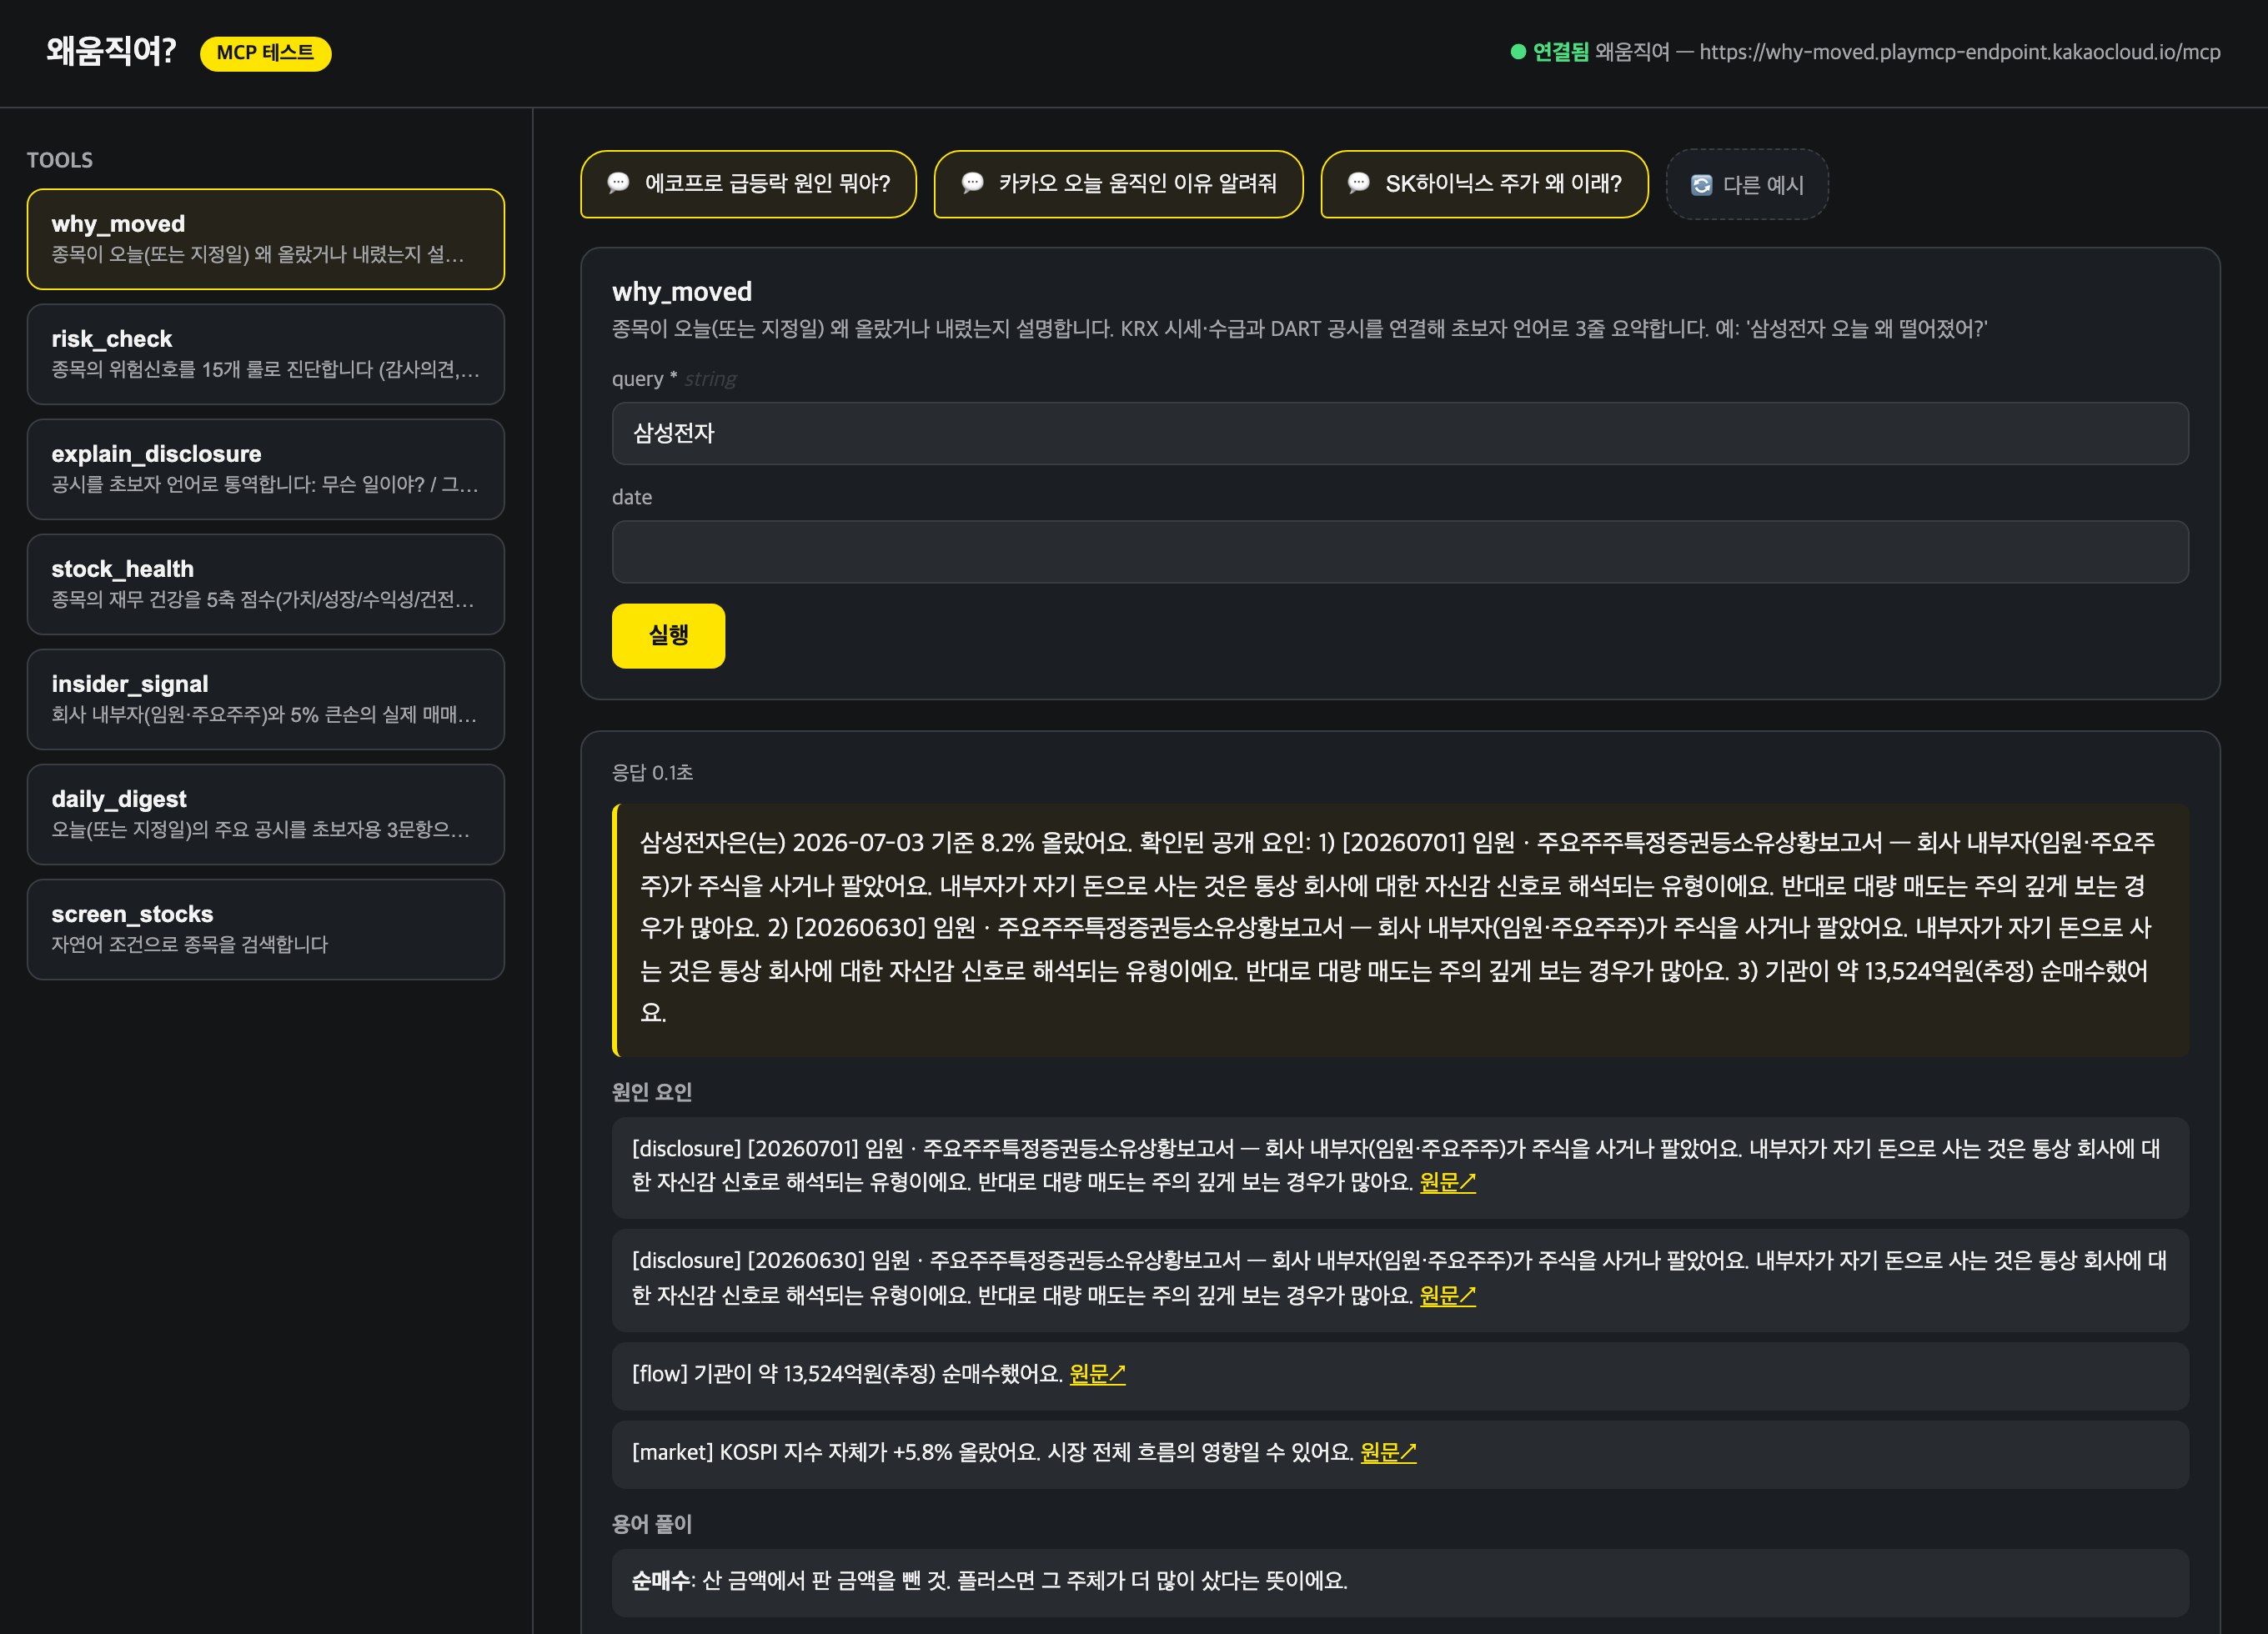
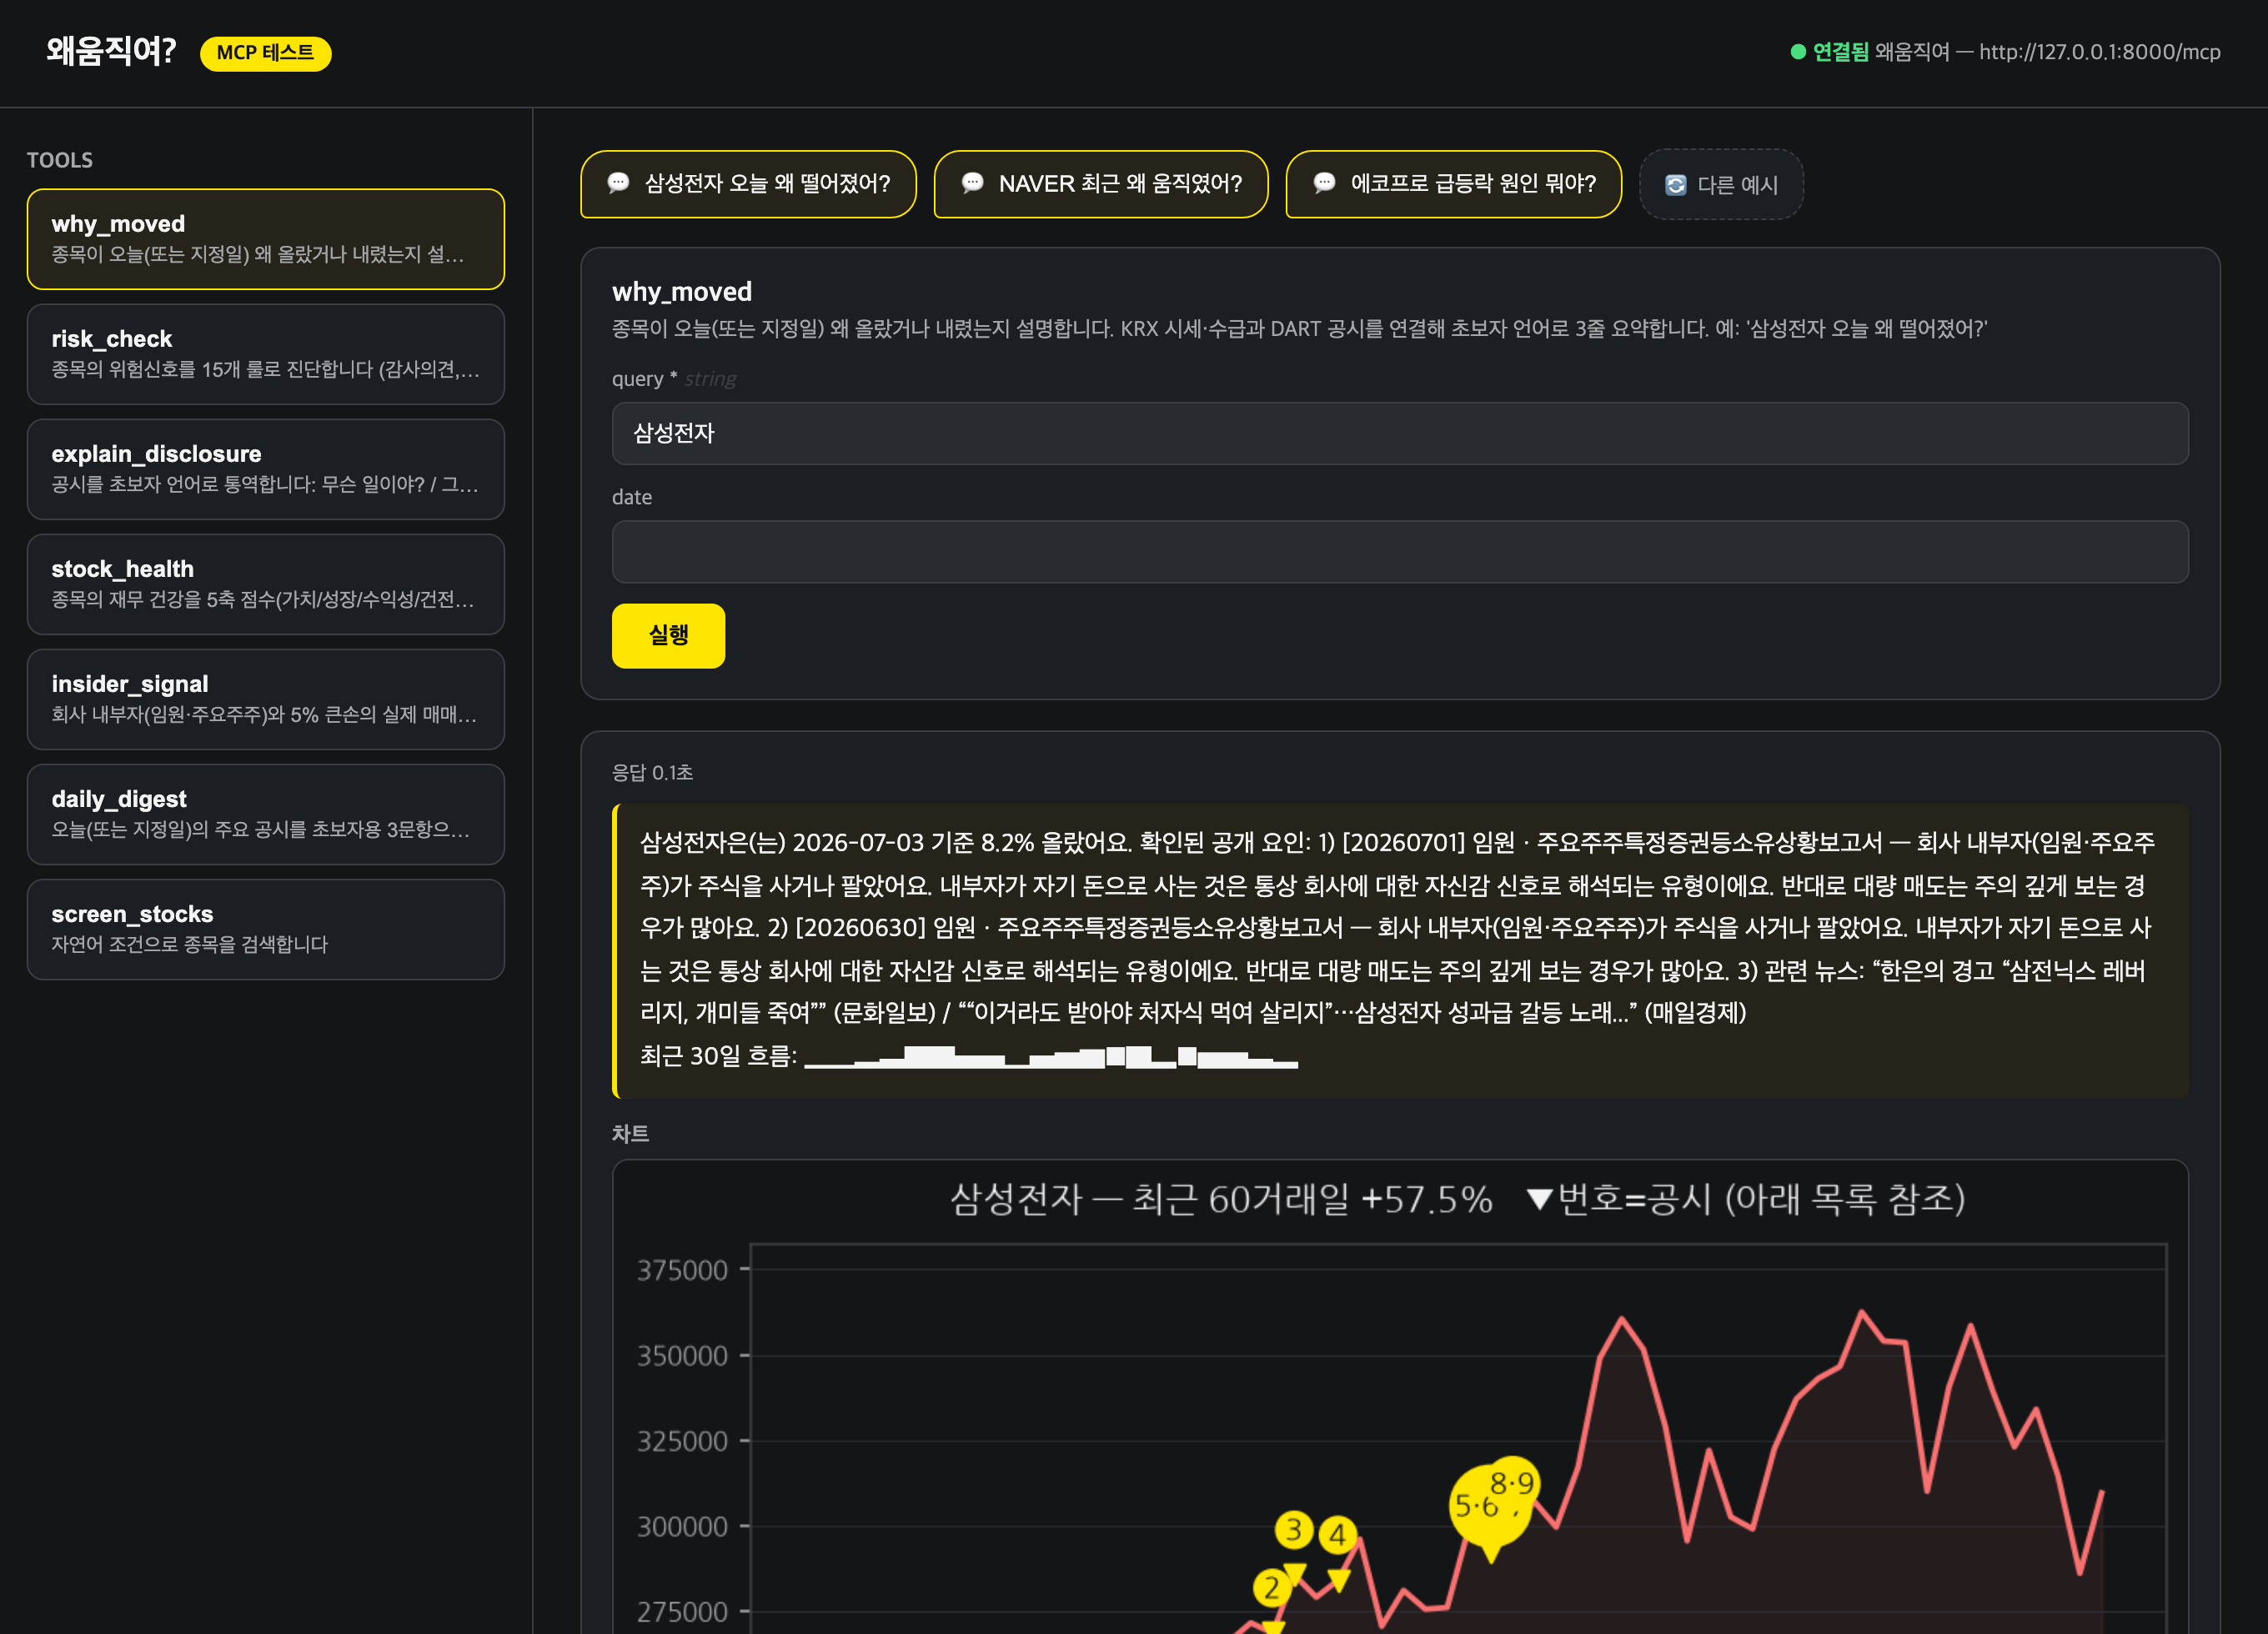
docs: README v0.2.1 반영 — 차트 갤러리 4종, 뉴스·업종·장중 데이터, 번호 마커 연결, 최신 데모 스크린샷

diff --git a/README.md b/README.md
@@ -6,8 +6,9 @@
 
 **"내 주식이 오늘 왜 떨어졌지?"** — 1,400만 개인투자자의 1등 질문에, 공시가 답합니다.
 
-[![Tests](https://img.shields.io/badge/tests-84%20passed-brightgreen)](tests/)
-[![Coverage](https://img.shields.io/badge/coverage-82%25-brightgreen)](tests/)
+[![Version](https://img.shields.io/badge/v0.2.1-%EC%B0%A8%ED%8A%B8%20%EC%9D%91%EB%8B%B5-FEE500)](src/why_moved/engine/charts.py)
+[![Tests](https://img.shields.io/badge/tests-104%20passed-brightgreen)](tests/)
+[![Coverage](https://img.shields.io/badge/coverage-81%25-brightgreen)](tests/)
 [![Tools](https://img.shields.io/badge/MCP%20tools-7-blue)](src/why_moved/tools/)
 [![Python](https://img.shields.io/badge/python-3.12-blue)](pyproject.toml)
 [![MCP](https://img.shields.io/badge/MCP-Streamable%20HTTP-purple)](src/why_moved/server.py)
@@ -25,9 +26,10 @@
 >
 > 🤖 삼성전자은(는) 2026-07-03 기준 **8.2% 올랐어요.** 확인된 공개 요인:
 > 1) [20260701] 임원·주요주주 소유상황보고서 — 회사 내부자가 주식을 사거나 팔았어요. 내부자가 자기 돈으로 사는 것은 통상 회사에 대한 자신감 신호로 해석되는 유형이에요.
-> 2) 기관이 약 **13,524억원(추정) 순매수**했어요.
-> 3) KOSPI 지수 자체가 +5.8% 올랐어요. 시장 전체 흐름의 영향일 수 있어요.
-> 📎 [공시 원문 보기 (DART)](https://dart.fss.or.kr) · *20260703 종가 기준*
+> 2) 관련 뉴스: *"한은의 경고 '삼전닉스 레버리지…'"* (문화일보) — 당일 뉴스 헤드라인까지 원인 후보로 연결
+> 3) 기관이 약 **13,524억원(추정) 순매수**했어요.
+> 최근 30일 흐름: `▁▁▂▃▇▇▄▄▁▄▅▆█▇▂█▅▅▃▂`
+> 📊 *+ 아래의 가격×공시 차트가 이미지로 함께 옵니다* · 📎 [공시 원문 (DART)](https://dart.fss.or.kr) · *20260703 종가 기준*
 
 > 👤 **카카오 위험한 종목이야?**
 >
@@ -53,15 +55,36 @@
 
 ---
 
+## 📊 말이 아니라, 차트로 답합니다
+
+모든 핵심 답변에 서버가 직접 그린 차트가 `chart_url`로 함께 옵니다.
+텍스트만 지원하는 클라이언트를 위해 유니코드 스파크라인(`▁▂▄▇`)·점수바(`███░░ 60`) 폴백도 내장했습니다.
+
+<div align="center">
+
+**① 가격×공시 이벤트 차트** — 공시와 주가를 한 장에. 번호 마커는 응답의 `chart_events` 목록(공시명·DART 원문 링크)과 1:1로 연결됩니다.
+
+<img src="assets/chart-price-events.png" width="760" alt="가격×공시 차트">
+
+| **② 5축 건강진단 레이더** (학점 워터마크) | **③ 기관·외국인 순매수 × 주가** |
+|:---:|:---:|
+| <img src="assets/chart-radar.png" width="360" alt="레이더 차트"> | <img src="assets/chart-flow.png" width="420" alt="수급 차트"> |
+
+**④ 위험신호 진단 카드** — 카톡방에 공유하기 좋은 요약 이미지
+
+<img src="assets/chart-risk-card.png" width="560" alt="위험 카드">
+
+</div>
+
 ## 📸 실제 동작 화면
 
-| "왜 움직였어?" — 공시·수급·시장 연결 설명 | "위험해?" — 15가지 위험신호 진단 |
+| "왜 움직였어?" — 공시·뉴스·수급·시장 연결 | "위험해?" — 15가지 위험신호 진단 |
 |:---:|:---:|
 | ![why_moved 데모](assets/demo-why-moved.png) | ![risk_check 데모](assets/demo-risk-check.png) |
 
 <div align="center">
 
-**재무 건강진단 — 5축 점수와 A~F 학점, 쉬운 문장 해설**
+**재무 건강진단 — 레이더 차트 + 점수바 + 쉬운 문장 해설**
 
 <img src="assets/demo-stock-health.png" width="720" alt="stock_health 데모">
 
@@ -73,15 +96,15 @@
 
 ## 🔧 7가지 도구
 
-| Tool | 무엇을 하나 | 이렇게 물어보세요 |
-|---|---|---|
-| 🔍 `why_moved` | 급등락 원인을 공시+수급+시장 흐름으로 3줄 설명 | "삼성전자 오늘 왜 떨어졌어?" |
-| 🚨 `risk_check` | 위험신호 15개 룰 진단 (감사의견·자본잠식·관리종목·CB 남발·횡령배임…) | "이 종목 위험한 거 아니야?" |
-| 📖 `explain_disclosure` | 공시를 "무슨 일이야? / 그래서 뭐? / 나랑 무슨 상관?" 3문항으로 통역 | "유상증자 공시 쉽게 설명해줘" |
-| 🏥 `stock_health` | 재무 건강 5축 점수 + A~F 학점 + 쉬운 문장 | "카카오 재무 상태 어때?" |
-| 💰 `insider_signal` | 임원·5% 큰손의 **공시된 실제 매매** 추적 | "임원들이 최근 자기 주식 샀어?" |
-| 📰 `daily_digest` | 오늘의 주요 공시를 초보자 눈높이로 요약 | "오늘 중요한 공시 뭐 있어?" |
-| 🔎 `screen_stocks` | 자연어 종목 검색 | "배당 4% 이상 PBR 1 이하 코스피" |
+| Tool | 무엇을 하나 | 시각화 | 이렇게 물어보세요 |
+|---|---|---|---|
+| 🔍 `why_moved` | 급등락 원인을 **공시+뉴스+수급+업종+시장** 5중으로 설명, 장중엔 지연 현재가 병기 | 가격×공시 차트 + 스파크라인 | "삼성전자 오늘 왜 떨어졌어?" |
+| 🚨 `risk_check` | 위험신호 15개 룰 진단 (감사의견·자본잠식·관리종목·CB 남발·횡령배임…) | 진단 카드 | "이 종목 위험한 거 아니야?" |
+| 📖 `explain_disclosure` | 공시를 "무슨 일이야? / 그래서 뭐? / 나랑 무슨 상관?" 3문항으로 통역 | — | "유상증자 공시 쉽게 설명해줘" |
+| 🏥 `stock_health` | 재무 건강 5축 점수 + A~F 학점 + 업종 비교 노트 | 레이더 차트 + 점수바 | "카카오 재무 상태 어때?" |
+| 💰 `insider_signal` | 임원·5% 큰손의 **공시된 실제 매매** — 장내매수/스톡옵션 등 사유별 신호 강도 구분 | 수급×주가 차트 | "임원들이 최근 자기 주식 샀어?" |
+| 📰 `daily_digest` | 오늘의 주요 공시 요약 (시총 상위·관심종목 가중) | — | "오늘 중요한 공시 뭐 있어?" |
+| 🔎 `screen_stocks` | 자연어 종목 검색 | — | "배당 4% 이상 PBR 1 이하 코스피" |
 
 ---
 
@@ -135,17 +158,20 @@ flowchart LR
     subgraph Server["왜움직여? MCP 서버 (PlayMCP in KC)"]
         T["MCP Tools ×7<br/>why_moved · risk_check · ..."]
         E["해석 엔진<br/>공시 템플릿 20종 · 용어사전 50개<br/>위험 룰 15개 · 건강점수 5축"]
-        C[("TTL 캐시<br/>SQLite")]
+        G["차트 엔진<br/>가격×공시 · 레이더 · 수급 · 위험카드<br/>(matplotlib + 나눔고딕 번들)"]
+        C[("TTL 캐시<br/>SQLite + PNG 저장소")]
     end
     subgraph Data["100% 무료 공개 데이터"]
         D["DART OpenAPI<br/>공시·재무·지분"]
-        N["시세·수급·밸류에이션"]
+        N["시세·수급·밸류에이션<br/>종목뉴스·장중시세·업종비교"]
         K["KIND<br/>관리종목·불성실공시"]
     end
     KT --> T
     AI --> T
     T --> E
+    T --> G
     E --> C
+    G --> C
     C --> D
     C --> N
     C --> K
@@ -200,14 +226,14 @@ sequenceDiagram
 
 | 항목 | 수치 |
 |---|---|
-| 테스트 | **84건 전부 통과** (룰별 양성/음성, 어댑터 HTTP 모킹, envelope 계약) |
-| 커버리지 | **82%** (목표 80%) |
-| 실데이터 E2E | 7개 tool 전부 실종목(삼성전자·카카오 등)으로 검증 |
+| 테스트 | **104건 전부 통과** (룰별 양성/음성, 어댑터 HTTP 모킹, 차트 PNG 스모크, envelope 계약) |
+| 커버리지 | **81%** (목표 80%) |
+| 실데이터 E2E | 7개 tool 전부 실종목(삼성전자·카카오 등)으로 검증, 차트 4종 브라우저 렌더 확인 |
 | 배포 검증 | PlayMCP in KC Active — 원격 MCP 프로토콜로 7개 tool 재검증 완료 |
 | 규제 방어 | 권유 표현 서버 차단 + 전 응답 고지·출처 (유사투자자문 아님) |
 
 ```bash
-uv run pytest --cov    # 84 passed, 82% coverage
+uv run pytest --cov    # 104 passed, 81% coverage
 ```
 
 ---
@@ -266,9 +292,9 @@ scripts/                   # CLI 클라이언트, 데모 캡처
 
 ## 🗺️ 로드맵
 
+- ✅ **v0.2 (완료)**: 차트 응답 4종 + 번호 마커↔공시 연결, 뉴스·업종·장중시세 데이터 확장, 유니코드 시각화 폴백
 - **본선 (7/30~8/27)**: Kakao Tools 위젯 — 건강진단 학점 카드, 위험신호 배지, 공시 타임라인
-- **v1.1**: 공매도 잔고 룰(R13) 데이터 연결, 관심종목 위험공시 알림
-- **v1.2**: 어닝 서프라이즈 감지 (잠정실적 vs 전년동기), 공시 히스토리 타임라인
+- **v0.3**: 공매도 잔고 룰(R13) 데이터 연결, 관심종목 위험공시 알림, 어닝 서프라이즈 감지
 
 ## ⚖️ 면책
 